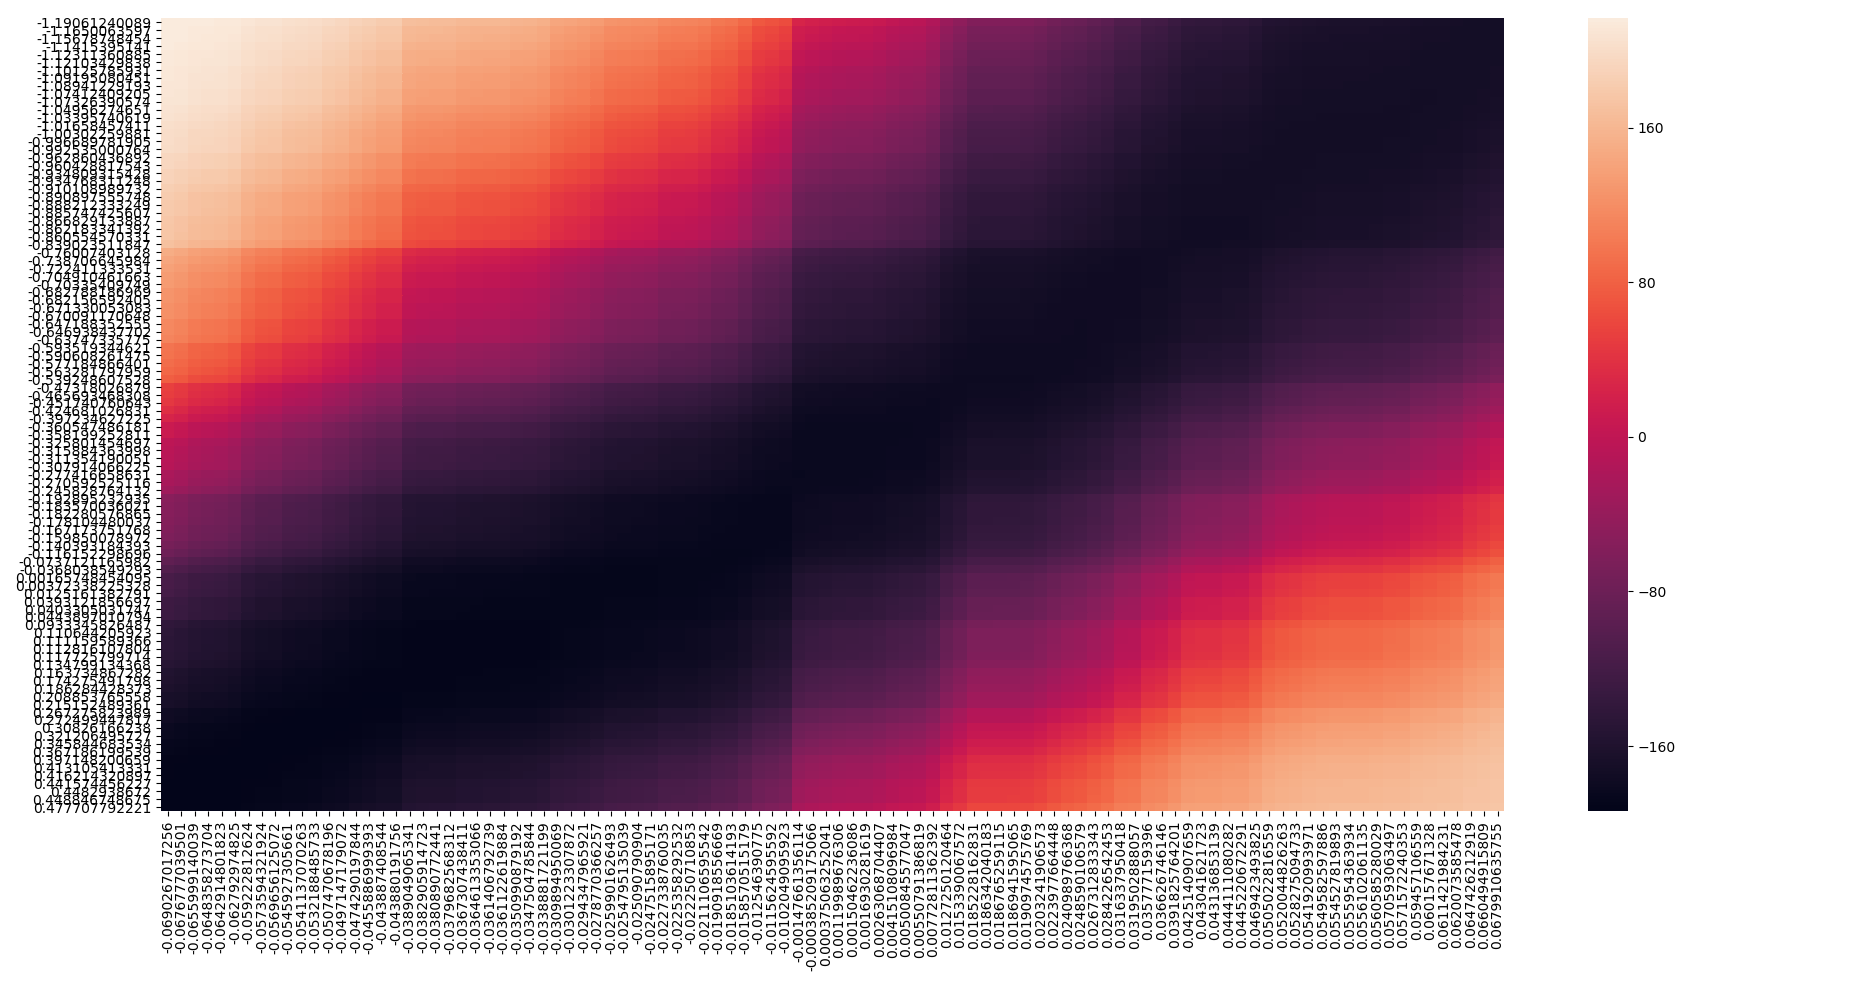
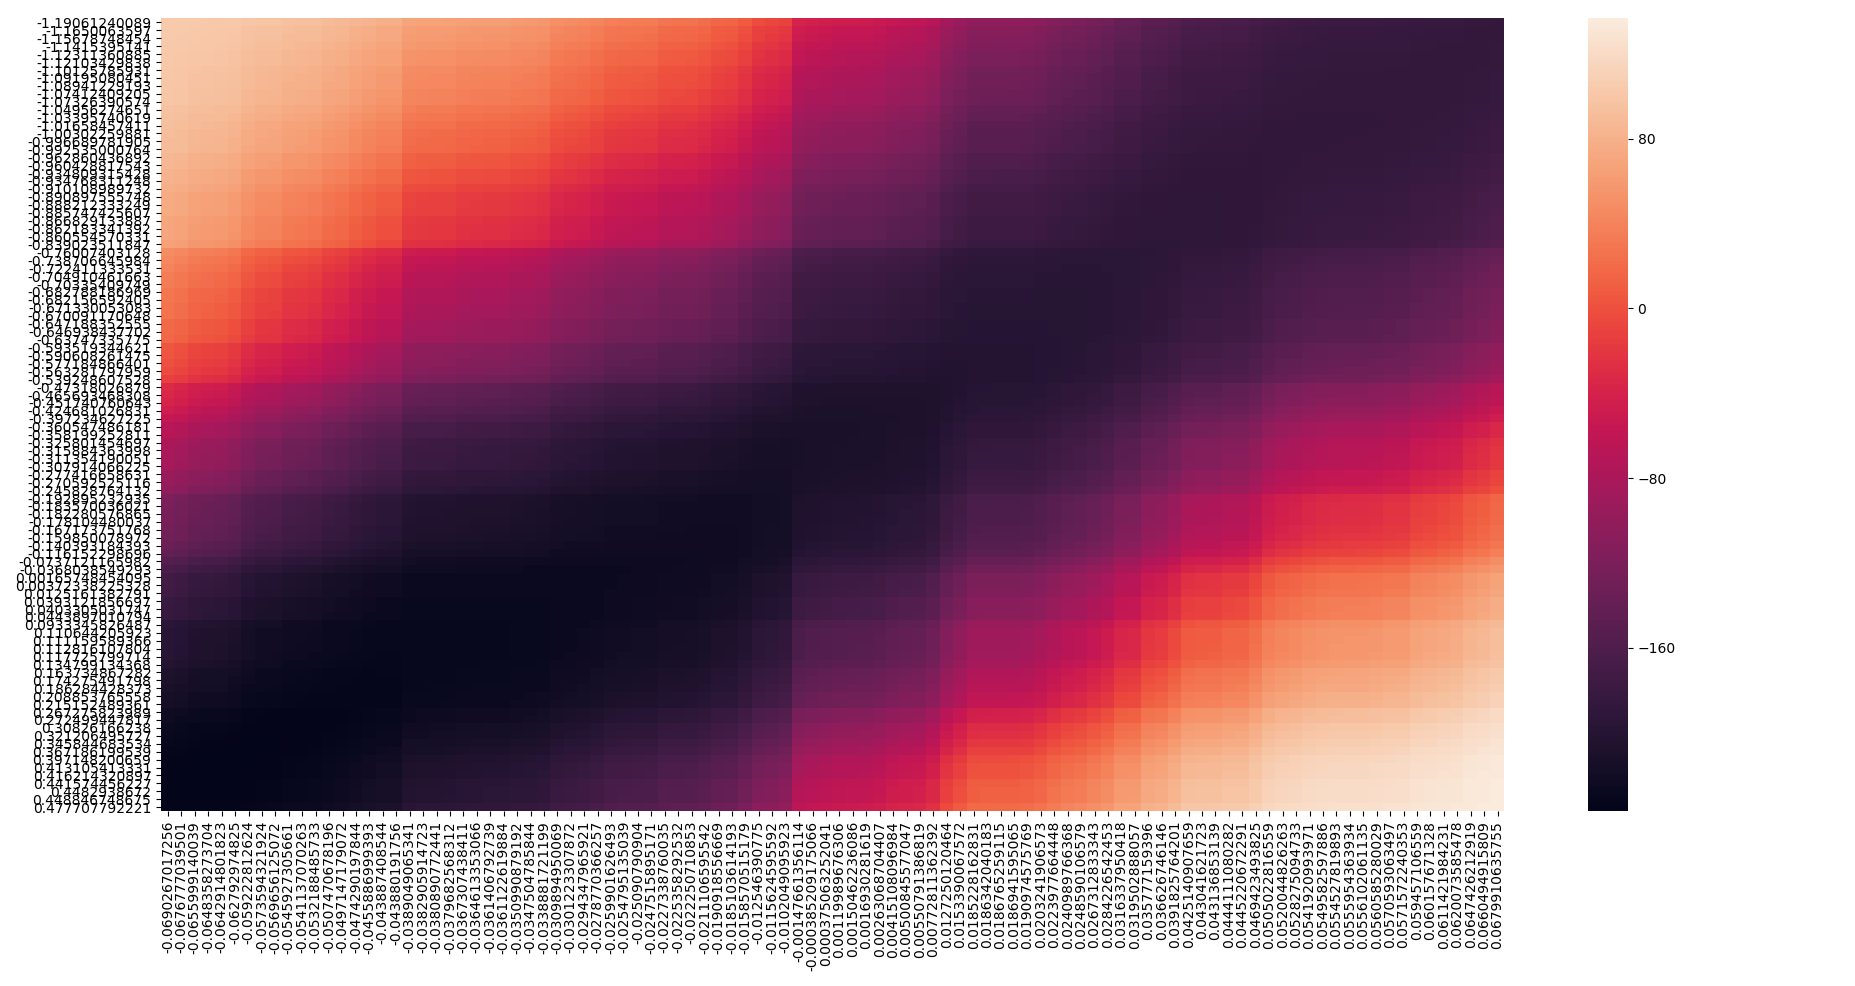
Experiment results some plots

Changed region(s): [[0.4302, 0.0, 0.8296, 0.8215], [0.0615, 0.0, 0.338, 0.3955], [0.8604, 0.1217, 0.8911, 0.1521]]

diff --git a/interface.py b/interface.py
@@ -23,10 +23,10 @@ class AEInterface:
 		}
 
 		self.hyperparameters = {
-			# "alpha": 0.02,
-			# "gamma": 1,
-			# "epsilon": 0.25,
-			# "be_degree": 3
+			"alpha": 0.02,
+			"gamma": 1,
+			"epsilon": 0.3,
+			"be_degree": 1
 		}
 
 

diff --git a/value_plotter.py b/value_plotter.py
@@ -7,7 +7,7 @@ import pandas as pd
 import matplotlib.pyplot as plt
 import seaborn as sns
 
-mode = "s"
+mode = "q"
 
 number_of_values = 100
 show_every = 5

diff --git a/plot_returns.py b/plot_returns.py
@@ -8,7 +8,7 @@ import seaborn as sns
 return_history = None
 
 q = 3
-mode = "q"
+mode = "s"
 
 if q == 3:
 	if mode == "s":
